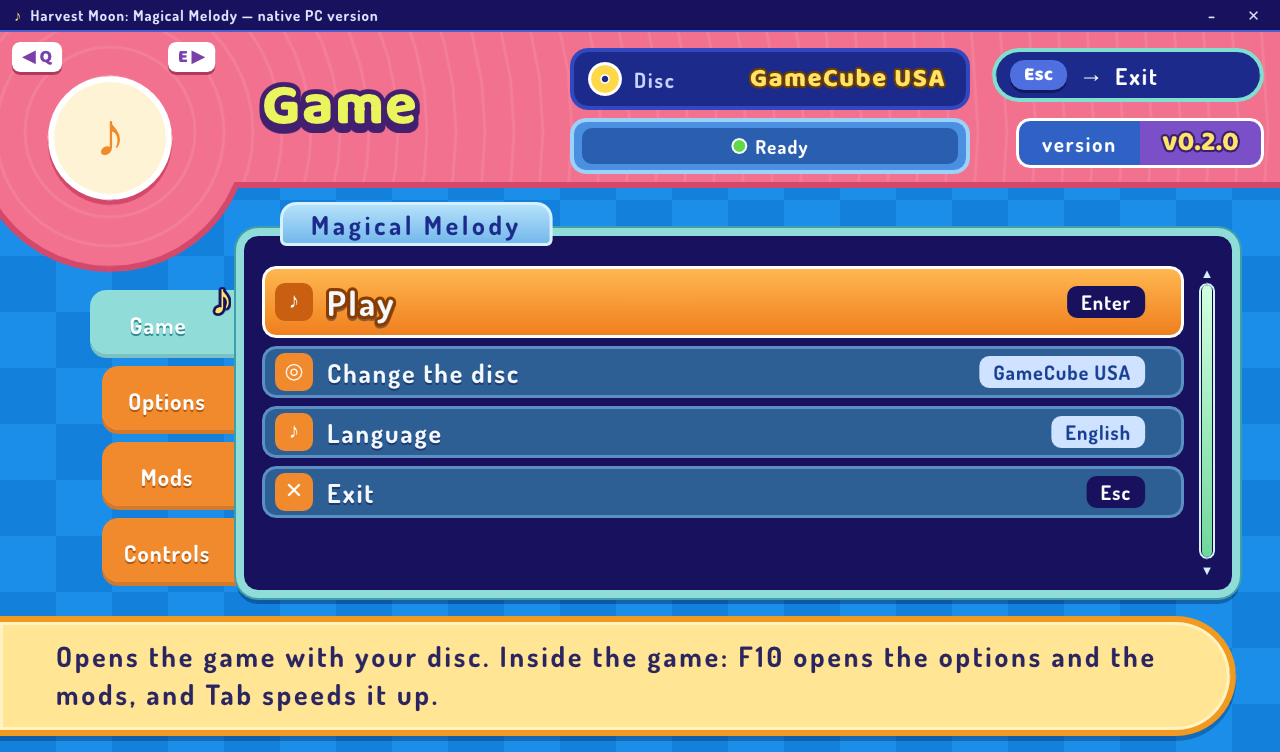
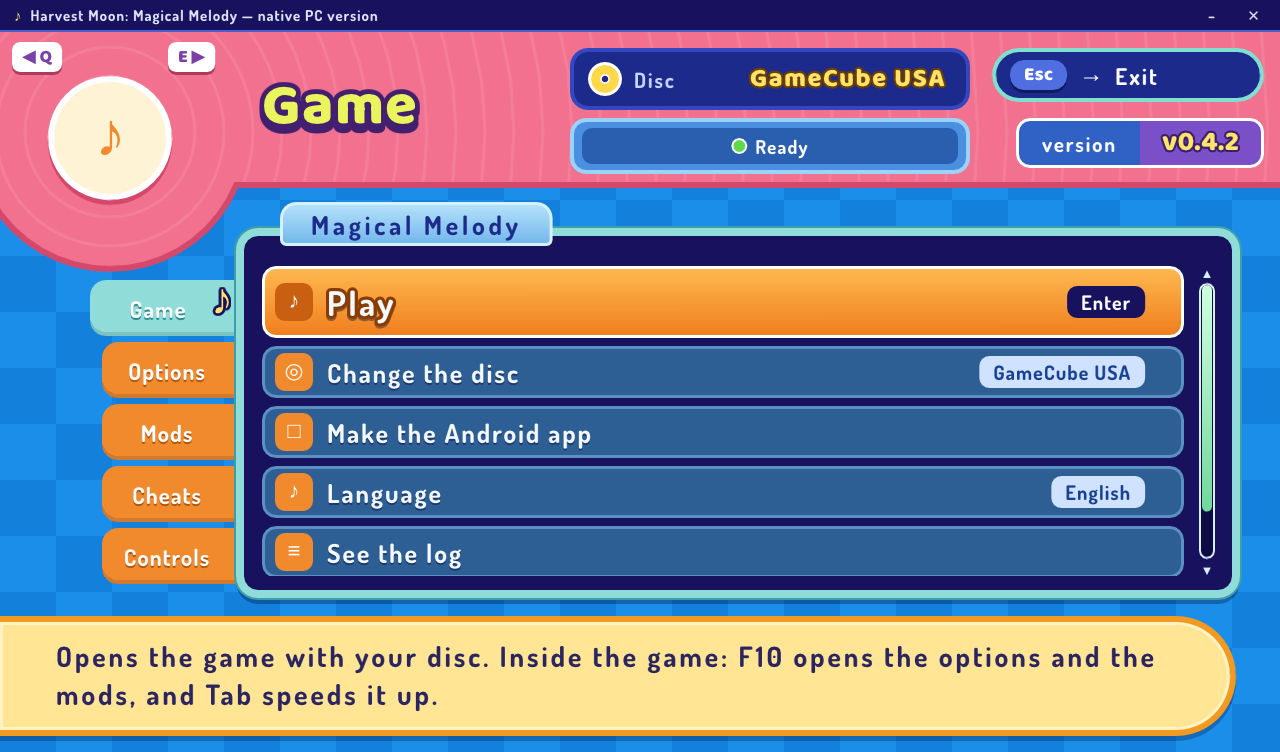
README: the launcher's pictures at v0.4.2, with the Cheats tab

diff --git a/README.es.md b/README.es.md
@@ -130,6 +130,8 @@ al día siguiente) y **amistad al máximo** (con todos; no se puede deshacer en 
 empezar escenas de amor y de rivales). Se guardan en `settings.json`, en `cheats`, y los hace el mod
 `cheats` ([mods/cheats/mod.c](mods/cheats/mod.c)).
 
+![La pestaña Trucos del launcher, con los cuatro trucos apagados](docs/images/launcher-cheats-es.png)
+
 #### Casarse con Jamie, funcionando en el juego
 
 <table>
@@ -177,7 +179,7 @@ empezar escenas de amor y de rivales). Se guardan en `settings.json`, en `cheats
     <td align="center">La casa en la mañana</td>
   </tr>
   <tr>
-    <td><img src="docs/images/launcher-mods-es.png" alt="La pestaña Mods del launcher, con Casarse con Jamie elegido"></td>
+    <td><img src="docs/images/launcher-mods-es.png" alt="La pestaña Mods del launcher, con Casarse con Jamie elegido y la sección Calidad de vida"></td>
     <td><img src="docs/images/launcher-options-es.png" alt="La pestaña Opciones del launcher"></td>
   </tr>
   <tr>

diff --git a/README.md b/README.md
@@ -130,6 +130,8 @@ day) and **maximum friendship** (with everyone; it cannot be undone in that save
 scenes may start). They are kept in `settings.json`, under `cheats`, and the `cheats` mod does them
 ([mods/cheats/mod.c](mods/cheats/mod.c)).
 
+![The launcher's Cheats tab, with the four cheats off](docs/images/launcher-cheats-en.png)
+
 #### Marry Jamie, working in the game
 
 <table>
@@ -177,7 +179,7 @@ scenes may start). They are kept in `settings.json`, under `cheats`, and the `ch
     <td align="center">The house in the morning</td>
   </tr>
   <tr>
-    <td><img src="docs/images/launcher-mods-en.png" alt="The launcher's Mods tab, with Marry Jamie chosen"></td>
+    <td><img src="docs/images/launcher-mods-en.png" alt="The launcher's Mods tab, with Marry Jamie chosen and the Quality of life section"></td>
     <td><img src="docs/images/launcher-options-en.png" alt="The launcher's Options tab"></td>
   </tr>
   <tr>
